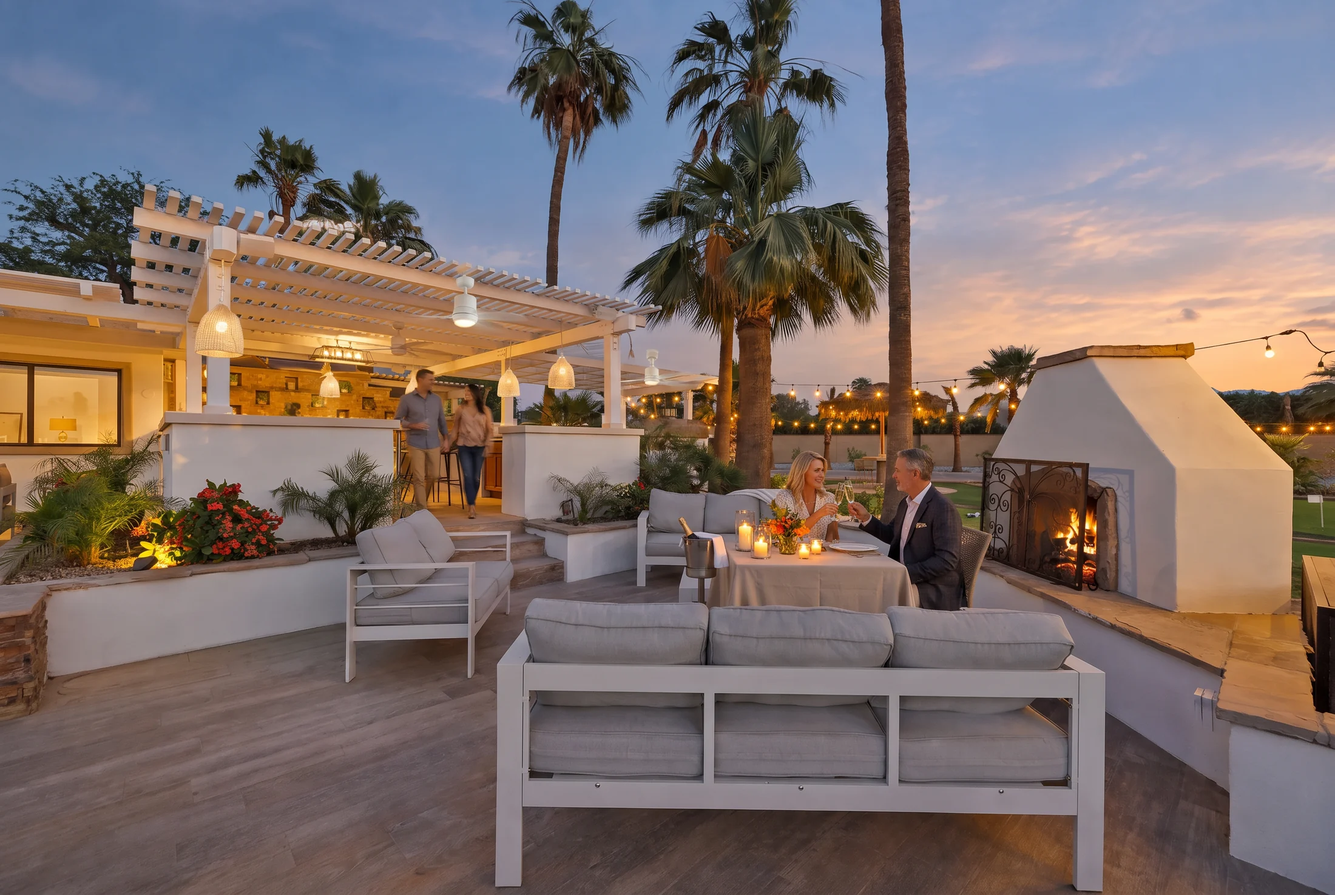
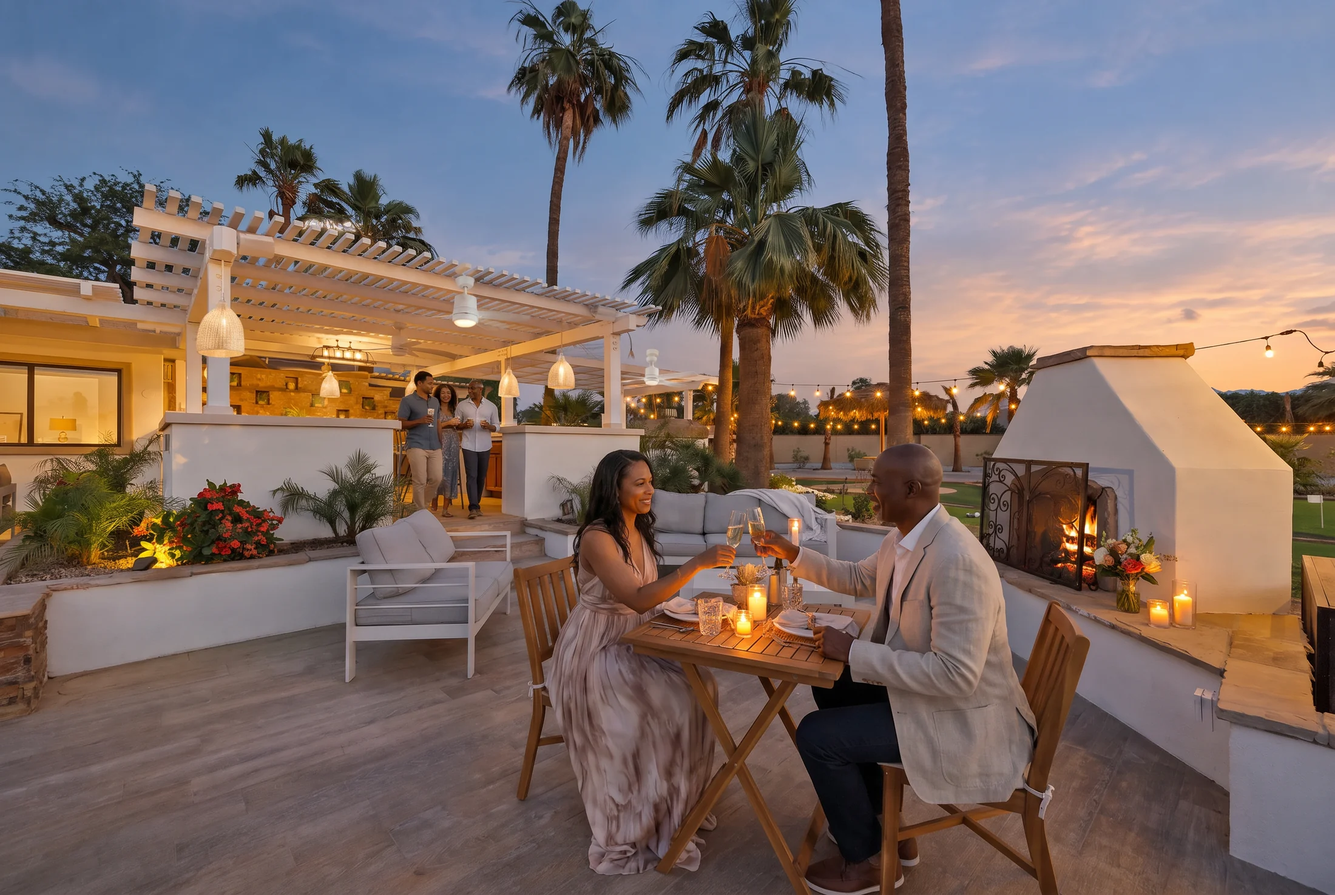
Correct celebration concepts for courts and inclusion

diff --git a/src/main.js b/src/main.js
@@ -361,9 +361,9 @@ function weddingsPage() {
         ].map(([n,t,c])=>`<article class="chapter reveal"><span>${n}</span><h3>${t}</h3><p>${c}</p></article>`).join('')}
       </div></section>
       <section class="event-concepts" id="event-ideas">
-        <div class="event-concepts__intro reveal"><p class="concept-badge">Event styling concepts</p><p class="eyebrow">Picture your people here</p><h2>Designed around<br />the way you gather.</h2><p>Three AI-assisted styling studies place real human energy into authentic Sunset Club Ranch settings. They are inspiration—not documentation of a past event or a promise of included decor, furniture, staffing, or services.</p></div>
+        <div class="event-concepts__intro reveal"><p class="concept-badge">Estate views & event styling concepts</p><p class="eyebrow">Picture your people here</p><h2>Designed around<br />the way you gather.</h2><p>An authentic view of the estate alongside AI-assisted styling studies shows how real Sunset Club Ranch settings can hold different kinds of gatherings. Styling images are inspiration—not documentation of a past event or a promise of included decor, furniture, staffing, or services.</p></div>
         <div class="event-concepts__grid">
-          <figure class="reveal">${picture('/media/event-concepts/lawn-wedding-2026.webp','Event styling concept showing an intimate dinner on the Sunset Club Ranch lawn')}<figcaption>Wedding dinner · styling concept</figcaption></figure>
+          <figure class="reveal">${picture(currentLawn,'Current lawn and mountain view at Sunset Club Ranch')}<figcaption>Five-acre lawn · current photograph</figcaption></figure>
           <figure class="reveal">${picture('/media/event-concepts/poolside-cocktails-2026.webp','Event styling concept showing a cocktail gathering beside the Sunset Club Ranch pool')}<figcaption>Poolside cocktails · styling concept</figcaption></figure>
           <figure class="reveal">${picture('/media/event-concepts/evening-pool.webp','Event styling concept showing friends gathering around the real Sunset Club Ranch pool at blue hour')}<figcaption>Birthday weekend · styling concept</figcaption></figure>
         </div>

diff --git a/README.md b/README.md
@@ -45,7 +45,7 @@ Original high-resolution supplied files are intentionally kept outside version c
 
 Run `scripts/process-october-photos.sh` after adding the supplied originals to ignored `incoming-media/october-2026/`. Four patio, outdoor-kitchen, and pizza-oven views in the original delivery still show a superseded stone finish; the script deliberately **does not publish them**. The authentic `living-room-hardwood-original.png` remains private because its couch is outdated; the website instead shows a visibly labeled sofa-and-throws styling visualization that retains the real floor, rug, table, and art. Its two warm checked throws and third gray checked throw follow the owner's other fireplace-view styling reference, rather than an invented textile set. The six-person sauna is a current estate amenity; the illustrative sauna image remains a design study for the future cold-plunge, shower, and courtyard context and must not be shown as documentary photography of the installed sauna.
 
-Run `scripts/process-event-concepts-2026.sh` after adding or replacing a reviewed concept source in ignored `incoming-media/event-concepts-2026/`. The current reviewed set covers wedding dinners, poolside cocktails, adult birthday weekends, anniversary dinners, and multigenerational recreation. Do not publish a concept unless the page preserves a clear event-styling disclosure and the asset remains grounded in an authentic Sunset Club Ranch setting.
+Run `scripts/process-event-concepts-2026.sh` after adding or replacing a reviewed concept source in ignored `incoming-media/event-concepts-2026/`. The current reviewed set covers wedding dinners, poolside cocktails, adult birthday weekends, anniversary dinners, and multigenerational recreation. The recreation concept is grounded in the owner-confirmed pickleball and sand-volleyball area, with the adjacent basketball hoop; no pool or water feature may be introduced in that scene. Do not publish a concept unless the page preserves a clear event-styling disclosure and the asset remains grounded in an authentic Sunset Club Ranch setting.
 
 ## Content integrity
 
